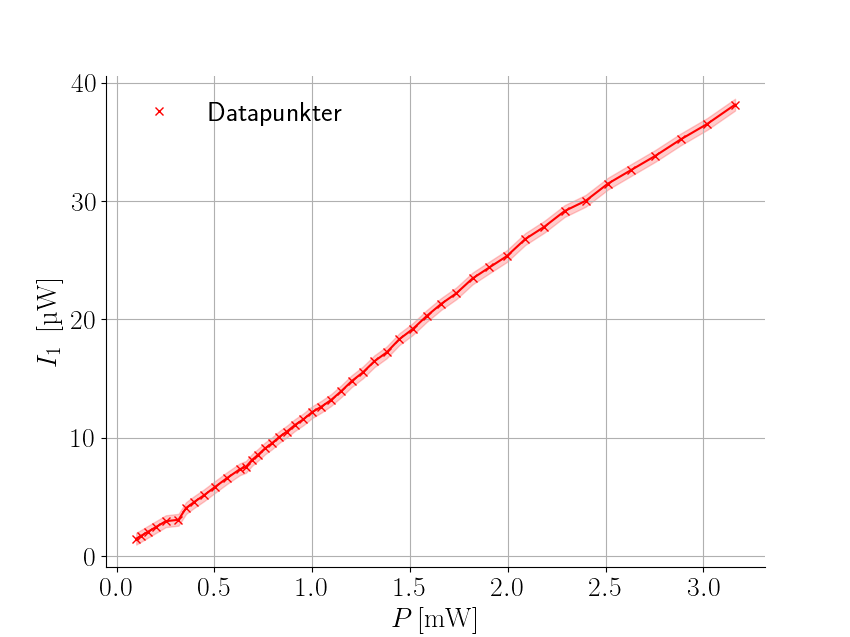
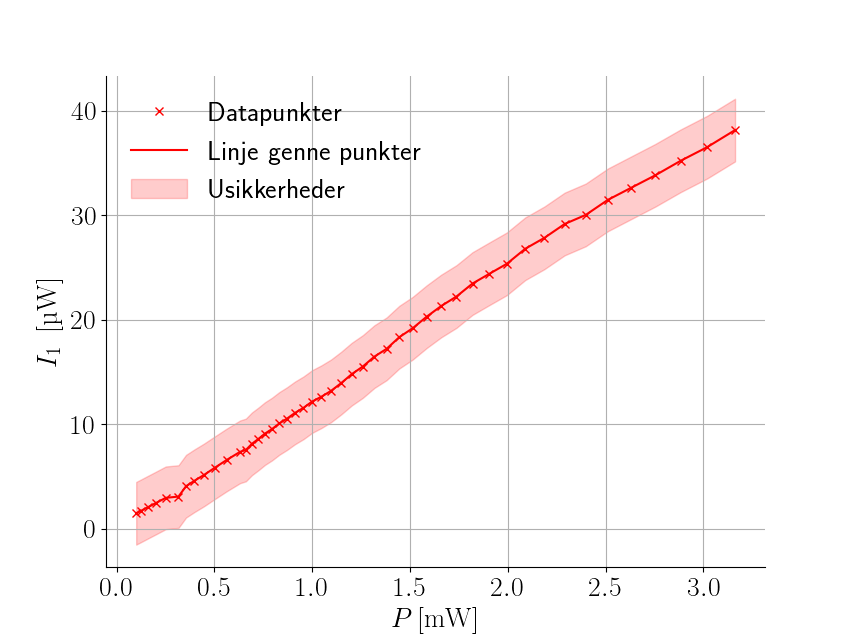
hej

diff --git a/Projekt/lab.py b/Projekt/lab.py
@@ -29,12 +29,12 @@ params = {'legend.fontsize'     : '20',
           'legend.frameon'      : False
           }
 
-
+plt.rcParams.update(params)
 
 plt.rc('text',usetex =True)
 plt.rc('font', **{'family' : "sans-serif"})
 
-plt.rcParams.update(params)
+
 
 
 
@@ -196,7 +196,7 @@ L = 2.00 * 10**(-3)
 dBm     = data[0] #power i vibrator
 P       = data[1] #intensitet i uW
 dBm2    = np.power(10, dBm/10.)
-sds_P   = 0.5 #TODO find ud af hvad usikkerhed er på denne måling
+sds_P   = 3 #TODO find ud af hvad usikkerhed er på denne måling
 sds_dbm = 0
 
 
@@ -206,11 +206,11 @@ dBm_sorted = np.sort(dBm2)
 
 
 plt.figure()
-plt.plot(dBm_sorted,P_sorted,'rx',label='Datapunkter')
+plt.plot(dBm_sorted,P_sorted,'rx')
 special.errorfill(dBm_sorted,P_sorted,sds_P,alpha_fill = alpha_fill,color = farve)
 plt.xlabel(r'$P \left[ \si{\milli\watt}\right]$')
 plt.ylabel(r'$I_1 \ \left[ \si{\micro\watt}\right]$')
-plt.legend()
+plt.legend(['Datapunkter' ,'Linje genne punkter','Usikkerheder'])
 plt.grid()
 plt.savefig('tegninger/graf2.png')
 
